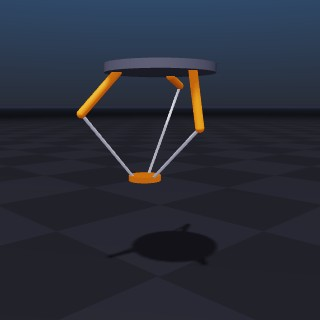
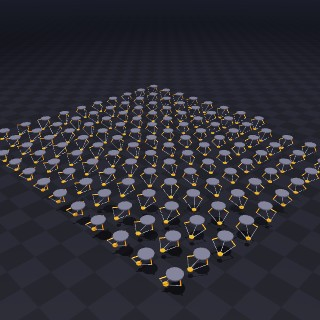
Solve a grid of delta robots in one IK batch
The ik_delta_robot example now places --world-count robots (default
128) in separate worlds and solves them as one batch of IK problems,
with targets staggered in time so some robots always reach beyond
their workspace.

diff --git a/newton/examples/ik/example_ik_delta_robot.py b/newton/examples/ik/example_ik_delta_robot.py
@@ -3,27 +3,30 @@
 
 """Example IK Delta Robot (closed loops + hard joint limits)
 
-Inverse kinematics of a delta robot, a parallel mechanism with closed kinematic loops.
+Inverse kinematics of a grid of delta robots, parallel mechanisms with closed kinematic loops,
+solved as one batch: one IK problem per robot.
 - Three motor arms hang from a base plate; a rod connects each arm to a moving platform.
 - The articulation tree reaches the platform through the first rod; the ball joints of the
   other two rods are loop-closing joints, added outside the articulation.
 - The motor joints have limits.
-- The platform tracks a target that circles below the base, partly beyond the workspace.
+- Each platform tracks a target that circles below its base, partly beyond the workspace; the
+  targets are staggered in time, so at any moment some robots reach beyond their workspace.
 - ``IKOptimizer.CUNLS`` keeps the loops closed (equality constraints) and the motors inside
   their limits (hard bounds); ``--optimizer lm`` uses Newton's default optimizer, which ignores
   loop-closing joints.
 
 Success criteria:
-- A delta robot hangs below a base plate, and its platform follows the red target.
-- All three rods stay attached to the platform.
-- Where the target leaves the workspace, the arms stop at their limits and the platform stays
+- A grid of 128 delta robots hangs below base plates; each platform follows its red target.
+- All rods stay attached to their platforms.
+- Where a target leaves the workspace, the arms stop at their limits and the platform stays
   as close to the target as the mechanism allows.
-- With ``--optimizer lm``, the second and third rods come apart from the platform.
+- With ``--optimizer lm``, the second and third rods of every robot come apart from the platform.
 
 Requires cuNLS (``pip install newton[cunls-cu12]`` or ``newton[cunls-cu13]``).
 
 Runs:
 - `python -m newton.examples ik_delta_robot`
+- `python -m newton.examples ik_delta_robot --world-count 1`
 - `python -m newton.examples ik_delta_robot --optimizer lm`
 """
 
@@ -43,9 +46,16 @@ ARM_LENGTH = 0.25
 ROD_LENGTH = 0.55
 PLATFORM_RADIUS = 0.06
 
+ROBOT_SPACING = 1.2
+
 # Motor limits [rad]: arms swing from 40 degrees up to 80 degrees down.
 MOTOR_LIMIT_LOWER = -0.7
 MOTOR_LIMIT_UPPER = 1.4
+
+# Target path: a circle whose radius swells past the workspace boundary (about 0.33 m) and back.
+TARGET_HEIGHT = 0.45
+TARGET_ANGULAR_SPEED = 0.8  # [rad/s]
+TARGET_SWELL_RATE = 0.6  # [rad/s]
 
 
 class Example:
@@ -54,42 +64,56 @@ class Example:
         self.frame_dt = 1.0 / self.fps
         self.sim_time = 0.0
 
+        self.world_count = args.world_count
+
         self.viewer = viewer
         self.viewer.picking_enabled = False
 
-        builder = newton.ModelBuilder()
-        self.build_delta_robot(builder)
-        builder.add_ground_plane()
-        self.model = builder.finalize()
+        # One robot is the IK model; the scene holds a copy of it in each world.
+        robot = newton.ModelBuilder()
+        self.build_delta_robot(robot)
+        self.robot_model = robot.finalize()
+
+        scene = newton.ModelBuilder()
+        scene.replicate(robot, self.world_count)
+        scene.add_ground_plane()
+        self.model = scene.finalize()
         self.state = self.model.state()
 
         self.viewer.set_model(self.model)
-        self.viewer.set_camera(pos=wp.vec3(1.3, -1.3, 0.85), pitch=-8.0, yaw=135.0)
+        self.viewer.set_world_offsets((ROBOT_SPACING, ROBOT_SPACING, 0.0))
+        self.world_offsets = self.viewer.world_offsets.numpy()  # to draw each target next to its robot
+        distance = 1.3 + 0.75 * ROBOT_SPACING * math.ceil(math.sqrt(self.world_count))
+        self.viewer.set_camera(pos=wp.vec3(distance, -distance, 0.6 + 0.7 * distance), pitch=-28.0, yaw=135.0)
 
         # ------------------------------------------------------------------
-        # IK: platform position and orientation, motor limits
+        # IK: platform position and orientation, motor limits; one problem per robot
         # ------------------------------------------------------------------
-        self.target = wp.vec3(0.0, 0.0, 0.45)
+        # Stagger the robots over one swell period of the target path.
+        self.time_offsets = 2.0 * math.pi / TARGET_SWELL_RATE * np.arange(self.world_count) / self.world_count
+        self.targets = np.zeros((self.world_count, 3), dtype=np.float32)
+        self.target_colors = wp.full(self.world_count, wp.vec3(1.0, 0.1, 0.1), dtype=wp.vec3)
         self.pos_obj = ik.IKObjectivePosition(
             link_index=self.platform,
             link_offset=wp.vec3(0.0, 0.0, 0.0),
-            target_positions=wp.array([self.target], dtype=wp.vec3),
+            target_positions=wp.zeros(self.world_count, dtype=wp.vec3),
         )
         self.rot_obj = ik.IKObjectiveRotation(
             link_index=self.platform,
             link_offset_rotation=wp.quat_identity(),
-            target_rotations=wp.array([wp.vec4(0.0, 0.0, 0.0, 1.0)], dtype=wp.vec4),  # keep it level
+            target_rotations=wp.array([wp.vec4(0.0, 0.0, 0.0, 1.0)] * self.world_count, dtype=wp.vec4),  # level
         )
         self.limit_obj = ik.IKObjectiveJointLimit(
-            joint_limit_lower=self.model.joint_limit_lower,
-            joint_limit_upper=self.model.joint_limit_upper,
+            joint_limit_lower=self.robot_model.joint_limit_lower,
+            joint_limit_upper=self.robot_model.joint_limit_upper,
         )
 
-        self.joint_q = self.model.joint_q.reshape((1, self.model.joint_coord_count))
+        # Row i of joint_q holds the coordinates of world i.
+        self.joint_q = self.model.joint_q.reshape((self.world_count, self.robot_model.joint_coord_count))
         self.ik_iters = 30
         self.solver = ik.IKSolver(
-            model=self.model,
-            n_problems=1,
+            model=self.robot_model,
+            n_problems=self.world_count,
             objectives=[self.pos_obj, self.rot_obj, self.limit_obj],
             optimizer=args.optimizer,
             jacobian_mode=ik.IKJacobianType.ANALYTIC,
@@ -110,7 +134,7 @@ class Example:
         self.platform = builder.add_link(label="platform")
         builder.add_shape_cylinder(self.platform, radius=PLATFORM_RADIUS + 0.03, half_height=0.015, color=motor_color)
 
-        tree_joints, rods, self.motor_joints, self.loop_joints = [], [], [], []
+        tree_joints, rods, self.motor_joints = [], [], []
         for i in range(3):
             angle = 2.0 * math.pi * i / 3.0
             radial = wp.vec3(math.cos(angle), math.sin(angle), 0.0)
@@ -159,7 +183,8 @@ class Example:
         tree_joints.append(self._add_wrist(builder, rods[0], 0))
         builder.add_articulation(tree_joints, label="delta_robot")
         # ... and the wrists of the other two rods close the loops.
-        self.loop_joints = [self._add_wrist(builder, rods[i], i) for i in (1, 2)]
+        for i in (1, 2):
+            self._add_wrist(builder, rods[i], i)
 
     def _add_wrist(self, builder, rod, i):
         angle = 2.0 * math.pi * i / 3.0
@@ -175,20 +200,23 @@ class Example:
     # ----------------------------------------------------------------------
     # Helpers
     # ----------------------------------------------------------------------
-    def update_target(self):
-        """Circle below the base; the radius swells past the workspace boundary (about 0.33 m) and back."""
-        phase = 0.8 * self.sim_time
-        radius = 0.24 - 0.14 * math.cos(0.6 * self.sim_time)
-        self.target = wp.vec3(radius * math.cos(phase), radius * math.sin(phase), 0.45)
-        self.pos_obj.set_target_position(0, self.target)
+    def update_targets(self):
+        """Move each target along its circle below the robot's base."""
+        t = self.sim_time + self.time_offsets
+        phase = TARGET_ANGULAR_SPEED * t
+        radius = 0.24 - 0.14 * np.cos(TARGET_SWELL_RATE * t)
+        self.targets[:, 0] = radius * np.cos(phase)
+        self.targets[:, 1] = radius * np.sin(phase)
+        self.targets[:, 2] = TARGET_HEIGHT
+        self.pos_obj.set_target_positions(wp.array(self.targets, dtype=wp.vec3))
 
     def loop_gaps(self):
-        """Distance [m] between the two frames of each loop-closing joint."""
+        """Distance [m] between the two frames of each loop-closing joint, in all worlds."""
         body_q = self.state.body_q.numpy()
         parent, child = self.model.joint_parent.numpy(), self.model.joint_child.numpy()
         X_p, X_c = self.model.joint_X_p.numpy(), self.model.joint_X_c.numpy()
         gaps = []
-        for j in self.loop_joints:
+        for j in np.flatnonzero(self.model.joint_articulation.numpy() == -1):
             p = wp.transform_point(wp.transform(*body_q[parent[j]]), wp.vec3(*X_p[j][:3]))
             c = wp.transform_point(wp.transform(*body_q[child[j]]), wp.vec3(*X_c[j][:3]))
             gaps.append(float(wp.length(p - c)))
@@ -198,7 +226,7 @@ class Example:
     # Template API
     # ----------------------------------------------------------------------
     def step(self):
-        self.update_target()
+        self.update_targets()
         self.solver.step(self.joint_q, self.joint_q, iterations=self.ik_iters)
         newton.eval_fk(self.model, self.model.joint_q, self.model.joint_qd, self.state)
         self.sim_time += self.frame_dt
@@ -207,34 +235,37 @@ class Example:
         gaps = self.loop_gaps()
         if max(gaps) > 1e-3:
             raise ValueError(f"A loop-closing joint opened by {max(gaps):.4f} m")
-        q = self.model.joint_q.numpy()
-        q_start = self.model.joint_q_start.numpy()
-        for j in self.motor_joints:
-            angle = q[q_start[j]]
-            if not MOTOR_LIMIT_LOWER - 1e-5 <= angle <= MOTOR_LIMIT_UPPER + 1e-5:
-                raise ValueError(f"Motor joint {j} left its limits: {angle:.4f} rad")
-        platform = self.state.body_q.numpy()[self.platform][:3]
-        self.tracking_errors.append(float(np.linalg.norm(platform - np.array(self.target))))
+        motor_angles = self.joint_q.numpy()[:, self.robot_model.joint_q_start.numpy()[self.motor_joints]]
+        if not np.all((motor_angles >= MOTOR_LIMIT_LOWER - 1e-5) & (motor_angles <= MOTOR_LIMIT_UPPER + 1e-5)):
+            raise ValueError(
+                f"A motor joint left its limits: angles span [{motor_angles.min():.4f}, {motor_angles.max():.4f}] rad"
+            )
+        platforms = self.state.body_q.numpy()[self.platform :: self.robot_model.body_count, :3]
+        self.tracking_errors.extend(np.linalg.norm(platforms - self.targets, axis=1))
 
     def test_final(self):
         reached = np.mean(np.array(self.tracking_errors) < 1e-3)
         if reached < 0.5:
-            raise ValueError(f"The platform reached the target in {reached:.0%} of the frames, expected 50% or more")
+            raise ValueError(
+                f"The platforms reached their targets in {reached:.0%} of the frames, expected 50% or more"
+            )
 
     def render(self):
         self.viewer.begin_frame(self.sim_time)
         self.viewer.log_state(self.state)
         self.viewer.log_points(
-            "target",
-            wp.array([self.target], dtype=wp.vec3),
+            "targets",
+            wp.array(self.targets + self.world_offsets, dtype=wp.vec3),
             radii=0.02,
-            colors=wp.array([wp.vec3(1.0, 0.1, 0.1)], dtype=wp.vec3),
+            colors=self.target_colors,
         )
         self.viewer.end_frame()
 
     @staticmethod
     def create_parser():
         parser = newton.examples.create_parser()
+        newton.examples.add_world_count_arg(parser)
+        parser.set_defaults(world_count=128)
         parser.add_argument(
             "--optimizer",
             type=str,
